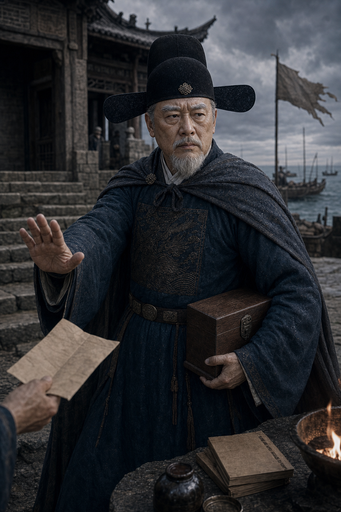
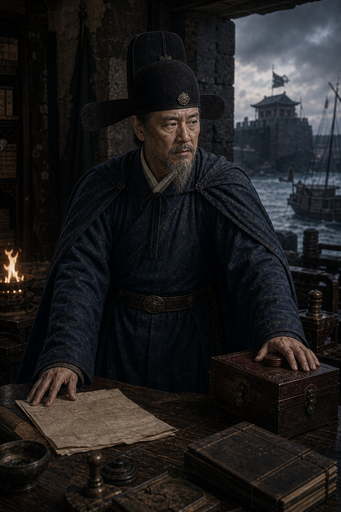
cmr r4: close portrait safe-zone and prompt nits

diff --git a/docs/portrait-prompts-scene-v2.md b/docs/portrait-prompts-scene-v2.md
@@ -158,7 +158,7 @@ Composition/framing: Use a pose silhouette that cannot collapse into the same de
 脸型=偏方但下巴收窄；额头=方而不高；眉眼=眉骨较硬，眉毛浓而短，眼睛细小有审视感；鼻梁=宽直；颧骨=硬而横；嘴唇=嘴角平直不笑；下颌=方中收窄；胡须=修得短而硬；肤色=偏古铜；皱纹=眉间竖纹、眼角审视纹；神情=常年看人履历的冷硬筛选感，不狞笑。
 
 姿势锚点：
-身体朝向=站在卷宗架旁，身体正面略偏左；重心=直立稳在两脚之间；双手位置=右手从高架抽出一本厚空白名单册，左手把另一册夹在腋下；道具关系=名单册、履历卷宗、印匣形成「决定谁进谁退」关系；视线方向=平平扫向画面外，像在掂量人；动作类型=站姿、抽册、夹册，不坐案前递册。
+身体朝向=站在卷宗架旁，身体正面略偏左；重心=直立稳在两脚之间；双手位置=右手从高架抽出一本厚空白名单册，左手把另一册夹在腋下；道具关系=名单册、履历卷宗、印匣形成「决定谁进谁退」关系；视线方向=平平扫向旁侧人影，像在掂量人；动作类型=站姿、抽册、夹册，不坐案前递册。
 
 场景服饰：深黑蓝文官袍，吏部权柄感，纹样锋利克制；吏部铨选房，高卷宗架、无字名册、印匣、官员履历卷宗。
 
@@ -344,13 +344,13 @@ Composition/framing: Use a pose silhouette that cannot collapse into the same de
 
 人物：黄道周，学者型直臣，书画名家，南明抗清被俘后至死不降。
 
-历史锚点：冷暗囚室里，他双手带着轻链，仍把诗稿举在胸前，侧脸拒绝画面外的劝降。
+历史锚点：冷暗囚室里，他双手带着轻链，仍把诗稿举在胸前，侧脸拒绝旁侧的劝降。
 
 脸部锚点：
 脸型=瘦削长脸；额头=高，眉骨高；眉眼=眼神执拗冷峻；鼻梁=直而长；颧骨=瘦高显骨；嘴唇=抿而硬；下颌=瘦长；胡须=长须灰白；肤色=牢狱里的灰白；皱纹=眉间深纹、眼下疲纹；神情=牢狱疲惫但脊梁不弯，执拗到底。
 
 姿势锚点：
-身体朝向=站直，微微侧脸朝画面外；重心=端立，脊梁不弯；双手位置=双手带轻链，却把一卷无字诗稿举在胸前；道具关系=轻链、诗稿、墙边竹简形成「囚室拒降」关系；视线方向=侧脸拒绝看画面外的劝降者；动作类型=带链站立、举诗稿、侧脸拒降，不扶案静立。
+身体朝向=站直，微微侧脸朝旁侧劝降者；重心=端立，脊梁不弯；双手位置=双手带轻链，却把一卷无字诗稿举在胸前；道具关系=轻链、诗稿、墙边竹简形成「囚室拒降」关系；视线方向=侧脸拒绝看旁侧劝降者；动作类型=带链站立、举诗稿、侧脸拒降，不扶案静立。
 
 场景服饰：朴素深灰蓝文官袍，衣摆有尘土和磨损，仍保持士大夫整洁；冷暗囚室或临刑前的石室，墙边有锁链、冷光、竹简和无字诗稿，背景极简压抑。
 
@@ -396,7 +396,7 @@ Composition/framing: Use a pose silhouette that cannot collapse into the same de
 脸型=短方脸，脸盘不宽不长；额头=宽而低，带黄土灰；眉眼=粗直黑眉，眼神锐利警醒；鼻梁=短直，不厚鼻翼；颧骨=中等但被风沙磨出硬线；嘴唇=干而紧；下颌=短方有力；胡须=短硬黑须贴下巴；肤色=土褐，被黄河风沙磨暗；皱纹=额间浅纹、眼下风尘纹；神情=现场立规矩的实干焦急，不是文馆清谈。
 
 姿势锚点：
-身体朝向=半蹲面向粮袋和木桩；重心=前压到插旗的右臂；双手位置=右手把无字白旗插进黄土，左手压无字赈济粮册；道具关系=白旗、粮袋、赈济簿连成“救荒安抚”关系；视线方向=看向画面外流民和兵影；动作类型=半蹲、插旗、压册，不站案前。
+身体朝向=半蹲面向粮袋和木桩；重心=前压到插旗的右臂；双手位置=右手把无字白旗插进黄土，左手压无字赈济粮册；道具关系=白旗、粮袋、赈济簿连成“救荒安抚”关系；视线方向=看向远处流民和兵影；动作类型=半蹲、插旗、压册，不站案前。
 
 场景服饰：深色御史袍、行旅披风、衣摆沾黄土；黄河赈济行营，粮袋、白旗、驿牌、远处流民和兵影。
 
@@ -414,7 +414,7 @@ Composition/framing: Use a pose silhouette that cannot collapse into the same de
 脸型=圆脸但不肥，脸盘端正；额头=平而宽，发际整齐；眉眼=短而整的眉，眼睛机敏却带久役的疲惫；鼻梁=直，鼻翼略宽；颧骨=被软颊包住，不外露；嘴唇=薄而抿，嘴角微抿出恭谨；下颌=圆而收；胡须=无须，下巴洁净；肤色=白里带灰，宫中少日照之色；皱纹=眼角细纹、额间浅横纹；神情=恭谨里压着委屈和戒备，不阴毒、不谄媚。
 
 姿势锚点：
-身体朝向=半侧身贴紧闭合朱门；重心=直立微偏向门一侧，像被推到门口；双手位置=右手扶住横门闩却未推开，左手把封缄辩诬文书护在胸前；道具关系=门闩、封缄文书、紧闭朱门连成“开门疑云与辩诬”关系；视线方向=从门侧回望画面外，似在自证；动作类型=站姿、侧身、护牍回望，不开门、不持刀。
+身体朝向=半侧身贴紧闭合朱门；重心=直立微偏向门一侧，像被推到门口；双手位置=右手扶住横门闩却未推开，左手把封缄辩诬文书护在胸前；道具关系=门闩、封缄文书、紧闭朱门连成“开门疑云与辩诬”关系；视线方向=从门侧回望门外暗影，似在自证；动作类型=站姿、侧身、护牍回望，不开门、不持刀。
 
 场景服饰：深紫黑司礼监内官袍，暗金纹样克制，帽饰完整，不像文官亦不像武将；司礼监值房与宫门阴影，宫灯、朱门门闩、无字冤案卷宗、封缄文书托盘。
 
@@ -446,7 +446,7 @@ Composition/framing: Use a pose silhouette that cannot collapse into the same de
 脸型=宽脸，骨架方；额头=不高，被冷光压暗；眉眼=眉浓而短，眼小且下压审视；鼻梁=粗；颧骨=宽而钝；嘴唇=厚薄适中，抿得平直；下颌=硬而方；胡须=短硬须；肤色=暗沉；皱纹=眉间竖纹、嘴角硬纹；神情=冷而麻木，习惯执行命令，不是夸张凶相。
 
 姿势锚点：
-身体朝向=半坐在审讯案侧，偏向画面外囚位；重心=压在靠案的一侧臀腿；双手位置=右手把一张空白审讯令压到案角，左手按着绣春刀柄；道具关系=审讯令、刀柄、无字案卷连成“诏狱逼供与追赃”关系；视线方向=头微低、目光向下审视画面外的囚犯；动作类型=半坐、压令、按刀，不站立持纸。
+身体朝向=半坐在审讯案侧，偏向旁侧囚位；重心=压在靠案的一侧臀腿；双手位置=右手把一张空白审讯令压到案角，左手按着绣春刀柄；道具关系=审讯令、刀柄、无字案卷连成“诏狱逼供与追赃”关系；视线方向=头微低、目光向下审视旁侧囚犯；动作类型=半坐、压令、按刀，不站立持纸。
 
 场景服饰：黑色飞鱼服或锦衣卫高官服，暗红腰带，佩刀可见而不夸张；北镇抚司审讯外堂，案上无字案卷、锁链阴影、冷烛、墙上暗影，不出现受刑者。
 
@@ -462,7 +462,7 @@ Composition/framing: Use a pose silhouette that cannot collapse into the same de
 脸型=瘦长脸；额头=窄；眉眼=眼窝深，眼细而专注；鼻梁=尖直；颧骨=高而不夸张；嘴唇=薄而冷；下颌=瘦削；胡须=短须很少；肤色=灰黄；皱纹=眼尾细纹、法令纹浅；神情=冷静观察恐惧的专业感，压迫而不外露凶相。
 
 姿势锚点：
-身体朝向=坐在矮案旁偏侧，脸朝画面外；重心=前倾贴近烛光；双手位置=右手捏一支细竹签，左手轻轻拨开一卷空白供状；道具关系=竹签、供状、冷烛连成“近距离审讯与心理压迫”关系；视线方向=贴近烛光、自下方看画面外的人；动作类型=坐姿、前倾、捏签拨状，不站立持纸。
+身体朝向=坐在矮案旁偏侧，脸朝旁侧囚位；重心=前倾贴近烛光；双手位置=右手捏一支细竹签，左手轻轻拨开一卷空白供状；道具关系=竹签、供状、冷烛连成“近距离审讯与心理压迫”关系；视线方向=贴近烛光、自下方看旁侧囚犯；动作类型=坐姿、前倾、捏签拨状，不站立持纸。
 
 场景服饰：深黑飞鱼服，纹样压暗，腰间短刀；昏暗审讯衙署侧室，案卷、锁链阴影、冷烛，不血腥直白。
 
@@ -624,7 +624,7 @@ Composition/framing: Use a pose silhouette that cannot collapse into the same de
 脸型=长方严肃脸，六十岁上下；额头=高而起横纹；眉眼=花白浓眉，眼神沉重疲惫；鼻梁=直而平；颧骨=不削，带松弛；嘴唇=抿而下垂；下颌=略松微垂；胡须=花白长须，齐整；肤色=灰黄少血色；皱纹=额纹、眼袋纹、法令纹深；神情=知自己只是暂压矛盾的沉重。
 
 姿势锚点：
-身体朝向=坐案侧身朝画面外的边将方向，上半身略转；重心=偏压在推令的右臂；双手位置=左手按住一封空白保任奏疏，右手把将令向画面外边将方向推去；道具关系=保任奏疏、空白将令、辽东地图连成“替边将保任”关系；视线方向=却望向关门外，似有忧虑；动作类型=按奏疏、推将令，不双手按桌。
+身体朝向=坐案侧身朝旁侧边将方向，上半身略转；重心=偏压在推令的右臂；双手位置=左手按住一封空白保任奏疏，右手把空白将令推向旁侧边将方向，但右手和整枚将令完整留在中轴安全区内；道具关系=保任奏疏、空白将令、辽东地图连成“替边将保任”关系；视线方向=却望向关门外，似有忧虑；动作类型=按奏疏、推将令，不双手按桌。
 
 场景服饰：文官督师袍外加厚披风与轻甲护肩；宁远军务帐，无字辽东地图、满桂军牌空白将令、尚方剑匣、火盆、旧军报。
 
@@ -644,7 +644,7 @@ Composition/framing: Use a pose silhouette that cannot collapse into the same de
 
 场景服饰：明军将领甲胄混搭厚皮袍，略不守规制；皮岛东江海岛军营，海风、船影、火盆、无字军旗、粮船货箱、空白督师令。
 
-专属负面：不要画成正统边帅或处决场景，不要瘦长脸，不要正面站定持令。Do not reuse the same actor face, facial structure, beard pattern, body type, pose, or silhouette as other portraits in this batch.
+专属负面：不要画成正统边帅或处决场景，不要瘦长脸，不要正面站定持令，不要与左良玉共用病态倚舷抓绳回望火光姿态。Do not reuse the same actor face, facial structure, beard pattern, body type, pose, or silhouette as other portraits in this batch.
 
 #### 阎鸣泰 `minister_阎鸣泰.png`
 
@@ -692,7 +692,7 @@ Composition/framing: Use a pose silhouette that cannot collapse into the same de
 
 场景服饰：明军边将轻甲，深蓝黑内衬，皮护肩，暗红披风，腰间佩刀；山海关城门内侧军帐门口，巨大门闩、关城阴影、远处关外烟尘、无字军旗、马匹暗影。
 
-专属负面：不要画成普通辽东训练少年，不要粗豪老将脸，不要按案持令。Do not reuse the same actor face, facial structure, beard pattern, body type, pose, or silhouette as other portraits in this batch.
+专属负面：不要画成普通辽东训练少年，不要粗豪老将脸，不要按案持令，不要与耿仲明共用贴城门低伏抓钥启闩姿态。Do not reuse the same actor face, facial structure, beard pattern, body type, pose, or silhouette as other portraits in this batch.
 
 #### 左良玉 `minister_左良玉.png`
 
@@ -708,7 +708,7 @@ Composition/framing: Use a pose silhouette that cannot collapse into the same de
 
 场景服饰：磨损厚甲、暗褐战袍、粗重腰带，脏旧披风；长江边军船甲板，火光、船帆、抢来的粮袋箱笼、疲兵阴影、无字军旗。
 
-专属负面：不要画成儒雅将领或热血救国将军，不要清秀脸，不要按案持令。Do not reuse the same actor face, facial structure, beard pattern, body type, pose, or silhouette as other portraits in this batch.
+专属负面：不要画成儒雅将领或热血救国将军，不要清秀脸，不要按案持令，不要与毛文龙共用倚桅压册按刀斜视姿态。Do not reuse the same actor face, facial structure, beard pattern, body type, pose, or silhouette as other portraits in this batch.
 
 #### 陈新甲 `minister_陈新甲.png`
 
@@ -852,7 +852,7 @@ Composition/framing: Use a pose silhouette that cannot collapse into the same de
 
 场景服饰：磨损甲胄、深褐披风、腰间弓刀；登州城门内侧或军火库暗廊，门闩、火把、火器箱、船缆、甲具、无字旗影。
 
-专属负面：不要与孔有德同脸兄弟，不要粗豪首倡的反将，不要正派守门将领，不要脸谱反派或妖魔坏人脸。Do not reuse the same actor face, facial structure, beard pattern, body type, pose, or silhouette as other portraits in this batch.
+专属负面：不要与孔有德同脸兄弟，不要粗豪首倡的反将，不要正派守门将领，不要脸谱反派或妖魔坏人脸，不要与吴三桂共用山海关半转扶门闩守关姿态。Do not reuse the same actor face, facial structure, beard pattern, body type, pose, or silhouette as other portraits in this batch.
 
 #### 尚可喜 `minister_尚可喜.png`
 
@@ -956,11 +956,11 @@ Composition/framing: Use a pose silhouette that cannot collapse into the same de
 脸型=方正老脸，不长；额头=宽，有横纹；眉眼=白眉整齐偏粗，眼睛干净坚定；鼻梁=不高但直；颧骨=平稳，不削瘦；嘴唇=厚薄适中；下颌=方而有力；胡须=短方形白须和白短髭，不要长须；肤色=海风吹出的青灰干色；皱纹=额横纹、眼角浅纹；神情=清官守城的平稳，不是囚中诗人，不是鹰鼻边官。
 
 姿势锚点：
-身体朝向=站在中左所城阶，身体朝城内不朝海船；重心=端直压在抱印匣的左臂；双手位置=右手把无字逃亡文书推向来劝逃者一侧，但手和整份文书完整留在中轴安全区内，左手抱留守印匣；道具关系=逃亡文书被推开，印匣被抱住；视线方向=看向来劝逃者；动作类型=站姿、推开、抱印，不按案。
+身体朝向=站在中左所城案前，身体朝城内不朝海船；重心=端直压在案前双臂；双手位置=右手按住案内完整无字逃亡文书，左手按住留守印匣；道具关系=逃亡文书被留在案内不接，印匣被守住；视线方向=侧望城内来劝逃者；动作类型=站姿、按文书、守印匣，不出现第二人递纸。
 
 场景服饰：素净深青地方/南明大臣袍，海风旧披风；厦门中左所城、海防小城石阶、空船影、留守印匣、城防簿、冷火盆。
 
-专属负面：不要长山羊须，不要分叉长须，不要像焦源溥或瞿式耜，不要普通布政使案前像。Do not reuse the same actor face, facial structure, beard pattern, body type, pose, or silhouette as other portraits in this batch.
+专属负面：不要长山羊须，不要分叉长须，不要像焦源溥或瞿式耜，不要第二只递纸手，不要第二个人物。Do not reuse the same actor face, facial structure, beard pattern, body type, pose, or silhouette as other portraits in this batch.
 
 #### 余大成 `minister_余大成.png`
 人物：余大成，山东巡抚，崇拜袁崇焕，吴桥兵变时因“不禁叛乱，而禁杀生”被讥为“白莲都院”，登州失守后充军电白。
@@ -995,7 +995,7 @@ Composition/framing: Use a pose silhouette that cannot collapse into the same de
 #### 瞿式耜 `minister_瞿式耜.png`
 人物：瞿式耜，常熟人，南明广西巡抚、永历朝大学士，留守桂林，城破被俘后囚禁四十余日，与张同敞唱和赋诗，不屈就义。
 
-历史锚点：桂林陷落后的囚室中，他在冷光下写下无字诗稿，侧身拒绝画面外劝降。
+历史锚点：桂林陷落后的囚室中，他在冷光下写下无字诗稿，侧身拒绝旁侧劝降。
 
 脸部锚点：
 脸型=长马脸；额头=高，露在素冠/头巾下；眉眼=灰白长眉，眼睛深陷而冷静；鼻梁=长直但不鹰钩；颧骨=瘦高但被牢狱疲惫压住；嘴唇=薄；下颌=瘦长；胡须=两缕细长白须分开垂下；肤色=苍白带牢狱灰气；皱纹=眼下深纹、颊侧细纹；神情=疲惫但脊梁不弯。
@@ -1033,7 +1033,7 @@ Composition/framing: Use a pose silhouette that cannot collapse into the same de
 场景服饰：洛阳王府内殿，厚帘、金器、酒案、宫灯；身着深红金宗藩王袍，纹样厚重而不越皇帝规制。
 
 脸部锚点：
-脸型=圆胖丰满；额头=宽而油润；眉眼=自满又怯懦；鼻梁=厚短；颧骨=被脂肪埋平；嘴唇=厚而松弛；下颌=双下巴；胡须/发饰=稀疏短须配宗藩冠；肤色=养尊处优的白净；皱纹/年龄纹=四十岁上下、纹浅而面松；神情=骄矜中藏怯。
+脸型=圆胖丰满；额头=宽而油润；眉眼=稀短眉，眼皮厚重下垂，眼裂偏窄，眼角微垂，目光避开正面但仍带自矜；鼻梁=厚短；颧骨=被脂肪埋平；嘴唇=厚而松弛；下颌=双下巴；胡须/发饰=稀疏短须配宗藩冠；肤色=养尊处优的白净；皱纹/年龄纹=四十岁上下、纹浅而面松；神情=骄矜中藏怯。
 
 姿势锚点：
 身体朝向=半身正对略偏，整个人陷在洛阳王府厚重大椅里；重心=沉坐压住扶手和椅背；双手位置=右手搭扶手，左手握玉带；道具关系=厚重大椅、酒案金器、洛阳王府帘幕形成“富贵宗藩坐享其成”关系；视线方向=自满下视；动作类型=沉坐大椅、握玉带，不半身站立。
@@ -1049,7 +1049,7 @@ Composition/framing: Use a pose silhouette that cannot collapse into the same de
 场景服饰：衡州桂王府内殿，竹帘、屏风、宫灯、家眷箱笼、封缄宗藩册宝匣，窗外乱兵火光；身着暗红宗藩王袍、金线克制，外披仓促搭上的暗色斗篷。
 
 脸部锚点：
-脸型=温和偏方圆；额头=平展；眉眼=谨慎而惊惧；鼻梁=平直；颧骨=不显；嘴唇=薄而紧抿；下颌=松弛；胡须/发饰=中等灰须配宗藩冠；肤色=偏黄；皱纹/年龄纹=五十岁上下、眼尾与额纹明显；神情=缺少进取的惶惑。
+脸型=温和偏方圆；额头=平展；眉眼=细淡眉，眼皮松，眼睛偏小，眼角下垂，目光频频瞥向门外；鼻梁=平直；颧骨=不显；嘴唇=薄而紧抿；下颌=松弛；胡须/发饰=中等灰须配宗藩冠；肤色=偏黄；皱纹/年龄纹=五十岁上下、眼尾与额纹明显；神情=缺少进取的惶惑。
 
 姿势锚点：
 身体朝向=向门口后撤；重心=后移欲走；双手位置=一手护册宝匣，一手抓披风；道具关系=紧贴封缄册宝匣；视线方向=瞥向门外；动作类型=被乱世推着走的仓皇南逃。
@@ -1065,7 +1065,7 @@ Composition/framing: Use a pose silhouette that cannot collapse into the same de
 场景服饰：南京宫殿内室，软榻、酒盏、宫灯、封缄江北急报、散乱赏赐器物、屏风；身着暗红金纹宗室皇帝常服，略华丽而不威严。
 
 脸部锚点：
-脸型=偏胖松软；额头=油亮；眉眼=浮而惊；鼻梁=短钝；颧骨=被脂肪掩；嘴唇=厚而懈；下颌=松垂；胡须/发饰=零落短须配常服冠；肤色=享乐后的虚白；皱纹/年龄纹=三十多岁、面有早松之态；神情=迟疑懒散。
+脸型=偏胖松软；额头=油亮；眉眼=眉毛散短，眼皮浮肿，眼睛圆而浅，眼尾微垂，目光游移；鼻梁=短钝；颧骨=被脂肪掩；嘴唇=厚而懈；下颌=松垂；胡须/发饰=零落短须配常服冠；肤色=享乐后的虚白；皱纹/年龄纹=三十多岁、面有早松之态；神情=迟疑懒散。
 
 姿势锚点：
 身体朝向=从南京宫殿软榻边半起，肩膀却还赖向榻背；重心=一半拖在软榻，一半被江北急报牵起；双手位置=右手撑住软榻边，左手迟疑伸向封缄江北急报；道具关系=酒盏、软榻、江北急报并置，急报逼近享乐空间；视线方向=避开急报、斜看屏风外动静；动作类型=软榻半起、伸手迟疑，不沉坐王府大椅。
@@ -1081,7 +1081,7 @@ Composition/framing: Use a pose silhouette that cannot collapse into the same de
 场景服饰：昏暗寝宫，朱门、宫灯、屏风、凤座阴影、封缄口谕托盘，窗外模糊宫城火光；身着明代皇后礼服或深色宫廷正装，凤冠完整，金红黑为主，不似普通妃嫔。
 
 脸部锚点：
-脸型=端庄清瘦；额头=平正；眉眼=克制而悲；鼻梁=秀直；颧骨=微显清减；嘴唇=薄而抿；下颌=清峻；胡须/发饰=凤冠垂珠齐整；肤色=苍白；皱纹/年龄纹=三十多岁、忧色入纹；神情=国亡前的镇定哀凝。
+脸型=端庄清瘦；额头=平正；眉眼=长而平的细眉，眼皮薄，眼尾微垂，眼下有淡青疲纹，目光收敛；鼻梁=秀直；颧骨=微显清减；嘴唇=薄而抿；下颌=清峻；胡须/发饰=凤冠垂珠齐整；肤色=苍白；皱纹/年龄纹=三十多岁、忧色入纹；神情=国亡前的镇定哀凝。
 
 姿势锚点：
 身体朝向=端立朱门旁、面朝门外；重心=直立沉稳；双手位置=一手扶衣袖，一手按口谕托盘边；道具关系=傍封缄口谕托盘；视线方向=望宫门外火光；动作类型=接末日口谕的端立。
@@ -1097,7 +1097,7 @@ Composition/framing: Use a pose silhouette that cannot collapse into the same de
 场景服饰：缅甸滇缅边境临时行宫，雨林暗影、竹楼、随行箱笼、封缄印匣、远处山路火把；身着年轻帝王宗室暗红袍，金线少，衣冠规整却被雨湿尘染。
 
 脸部锚点：
-脸型=清秀瘦削；额头=平窄；眉眼=惶惑而端正；鼻梁=细直；颧骨=略凸；嘴唇=薄；下颌=尖瘦；胡须/发饰=稀疏青须配规整冠巾；肤色=奔逃后的灰白；皱纹/年龄纹=三十多岁、眼下疲纹；神情=端正中带长期奔逃之惫。
+脸型=清秀瘦削；额头=平窄；眉眼=细直眉，眼睛偏大但眼神不稳，眼角略向下，眼下有奔逃疲纹；鼻梁=细直；颧骨=略凸；嘴唇=薄；下颌=尖瘦；胡须/发饰=稀疏青须配规整冠巾；肤色=奔逃后的灰白；皱纹/年龄纹=三十多岁、眼下疲纹；神情=端正中带长期奔逃之惫。
 
 姿势锚点：
 身体朝向=微缩朝向临时案；重心=内收下沉；双手位置=一手抱印匣，一手扶湿披风；道具关系=紧抱封缄印匣；视线方向=望向不可回的边境；动作类型=国祚被压进一个小盒的瑟缩。
@@ -1110,10 +1110,10 @@ Composition/framing: Use a pose silhouette that cannot collapse into the same de
 
 历史锚点：随郑氏流寓台湾，清军平澎湖后交还印册、留绝命诗、拒降殉明；画其在东宁王府把宗藩印册推至案前、面向海风诀别的一瞬，不表现具体自尽工具。
 
-场景服饰：台湾东宁宁靖王府简陋内室，海风、烛光、印匣、无字绝命诗卷、旧宗室册书、窗外海潮；身着暗红宗藩王袍、金线克制，外披旧披风，衣料带海岛潮湿感。
+场景服饰：台湾东宁宁靖王府简陋内室，海风、烛光、印匣、无字绝命诗卷、封缄宗室旧册匣、窗外海潮；身着暗红宗藩王袍、金线克制，外披旧披风，衣料带海岛潮湿感。
 
 脸部锚点：
-脸型=清瘦修长；额头=平峻；眉眼=忧郁而坚定；鼻梁=直挺；颧骨=瘦显；嘴唇=薄而定；下颌=清硬；胡须/发饰=灰长须配旧宗藩冠；肤色=带海岛寒气的青白；皱纹/年龄纹=五十岁上下、风霜入纹；神情=流亡孤臣的忧郁决绝。
+脸型=清瘦修长；额头=平峻；眉眼=细长平眉，眼窝略深，眼尾下压，眼下有海风疲纹，目光定在窗外潮声；鼻梁=直挺；颧骨=瘦显；嘴唇=薄而定；下颌=清硬；胡须/发饰=灰长须配旧宗藩冠；肤色=带海岛寒气的青白；皱纹/年龄纹=五十岁上下、风霜入纹；神情=流亡孤臣的忧郁决绝。
 
 姿势锚点：
 身体朝向=朝海风站直；重心=挺立沉定；双手位置=一手推出印匣，一手压无字诗卷；道具关系=印匣与无字绝命诗卷并陈；视线方向=面向窗外海潮；动作类型=把宗藩身份交还亡国的诀别。
@@ -1145,7 +1145,7 @@ Composition/framing: Use a pose silhouette that cannot collapse into the same de
 人物：莽古尔泰，努尔哈赤第五子，正蓝旗主，勇悍暴烈，御前露刃、后被夺爵牵出大逆案。
 历史锚点：后金议政帐中，他在皇太极面前怒而半拔刀、越过礼法线的一瞬。
 脸部锚点：脸型=短宽脸、脖颈粗；额头=低宽；眉眼=眉浓乱、眼大外露；鼻梁=钝粗；颧骨=粗阔；嘴唇=嘴角绷硬；下颌=宽厚紧绷；胡须/发饰=满洲垂辫、浓黑短须；肤色=风吹粗粝；皱纹/年龄纹=四十上下、额颊粗纹；神情=一点就着、暴烈失控。
-姿势锚点：身体朝向=斜向画面外前冲；重心=前倾失稳；双手位置=右手握半出鞘刀柄、左手抓扯乱的披风边；道具关系=露刃越礼；视线方向=逼视皇太极；动作类型=怒而半拔刀。
+姿势锚点：身体朝向=斜向前方冲出；重心=前倾失稳；双手位置=右手握半出鞘刀柄、左手抓扯乱的披风边；道具关系=露刃越礼；视线方向=逼视皇太极；动作类型=怒而半拔刀。
 场景服饰：后金军帐，火盆、无字蓝旗影、刀弓、被震翻的酒碗、议政木牌散乱；后金甲胄，厚皮袍，蓝旗系深蓝细节，暗色披风。
 专属负面：不要画成沉稳统帅或普通猛将、不要丑化成蛮汉。Do not reuse the same actor face, facial structure, beard pattern, body type, pose, or silhouette as other portraits in this batch.
 
@@ -1300,7 +1300,7 @@ Composition/framing: Use a pose silhouette that cannot collapse into the same de
 脸型=幼童圆小脸；额头=饱满，被过大的幼主冠压住；眉眼=幼细眉，眼睛茫然紧张；鼻梁=小而软；颧骨=儿童圆颊；嘴唇=小而微闭；下颌=圆短；胡须/发饰=无须，幼主冠帽过大；肤色=白净偏冷；皱纹/年龄纹=无皱，只有紧张眼影；神情=被巨大政治机器包围的茫然，不是成年皇帝。
 
 姿势锚点：
-身体朝向=端坐在小座正前；重心=身体小而僵，压在膝前袖中；双手位置=双手收在过长袖中，袖口垂在膝前；道具关系=小座、空汗位、八旗令牌形成“折中幼主”关系；视线方向=看向画面外成人阴影；动作类型=静坐、被推上位置，不主动发令。
+身体朝向=端坐在小座正前；重心=身体小而僵，压在膝前袖中；双手位置=双手收在过长袖中，袖口垂在膝前；道具关系=小座、空汗位、八旗令牌形成“折中幼主”关系；视线方向=看向侧后成人阴影；动作类型=静坐、被推上位置，不主动发令。
 
 场景服饰：后金小王子/幼主袍，深蓝黑金线，帽饰完整但压得过大；汗帐内，巨大空汗位、宫灯、皮帐、成人甲士和摄政者模糊阴影、八旗令牌。
 
@@ -1350,7 +1350,7 @@ Composition/framing: Use a pose silhouette that cannot collapse into the same de
 脸型=结实宽颧脸；额头=低宽，有旧伤阴影；眉眼=浓眉乱压，眼神狠且不信人；鼻梁=粗硬；颧骨=高而带疤；嘴唇=厚薄适中，嘴角下坠；下颌=宽硬；胡须=粗乱短须；肤色=烟火熏黑的粗褐；皱纹=额角伤纹、眼下横纹；神情=随时翻脸的多疑暴烈，不是单纯苦人。
 
 姿势锚点：
-身体朝向=斜向前压在乱帐火光里；重心=压向财箱和刀柄；双手位置=左手压抢来财箱，右手握重刀柄；道具关系=财箱、重刀、破旗形成“暴烈军头”关系；视线方向=斜看画面外的部下；动作类型=前压、压箱、握刀，不牵马沉默行走。
+身体朝向=斜向前压在乱帐火光里；重心=压向财箱和刀柄；双手位置=左手压抢来财箱，右手握重刀柄；道具关系=财箱、重刀、破旗形成“暴烈军头”关系；视线方向=斜看旁侧部下；动作类型=前压、压箱、握刀，不牵马沉默行走。
 
 场景服饰：破旧边兵甲、暗红布袍、重刀；边军乱营或四川前线乱帐，火光、尘土、破帐、财箱、兵器、无字破旗。
 
@@ -1382,7 +1382,7 @@ Composition/framing: Use a pose silhouette that cannot collapse into the same de
 脸型=偏瘦的窄长脸；额头=不高，发际乱；眉眼=细眉弯挑，眼神亮而游移；鼻梁=窄直；颧骨=中高但不硬；嘴唇=薄，笑意偏向一侧；下颌=尖而灵活；胡须=细短胡须修得不齐；肤色=营帐火光下的暗黄；皱纹=眼尾笑纹、嘴角斜纹；神情=善谈会算、随时改口的狡黠，不是凶猛主将，也不动物化。
 
 姿势锚点：
-身体朝向=侧身坐在营帐矮案旁；重心=松散靠向一侧腰胯；双手位置=右手捏小木牌，左手搭在酒碗边；道具关系=木牌、酒碗、分赃银块形成“联盟与分赃算计”关系；视线方向=斜笑看向画面外同伙；动作类型=坐姿、捏牌、斜笑，不握重刀压箱。
+身体朝向=侧身坐在营帐矮案旁；重心=松散靠向一侧腰胯；双手位置=右手捏小木牌，左手搭在酒碗边；道具关系=木牌、酒碗、分赃银块形成“联盟与分赃算计”关系；视线方向=斜笑看向旁侧同伙；动作类型=坐姿、捏牌、斜笑，不握重刀压箱。
 
 场景服饰：破旧皮袍、轻甲、暗色围巾，衣料比普通流寇稍花哨但不富贵；流寇营帐，火盆、酒碗、骰盅/骨牌、分赃银块、无字联盟木牌、帐外兵影。
 
@@ -1424,14 +1424,14 @@ Composition/framing: Use a pose silhouette that cannot collapse into the same de
 
 人物：孙可望，张献忠义子，大西军主要将领，入云贵后联明抗清又挟永历帝，自称/受封秦王，因削李定国兵权导致内裂，永历十一年兵败降清。
 
-历史锚点：安隆府中，他正坐高案后，一手按秦王印匣，一手摊开空白诏书，像把朝廷压在自己的案上。
+历史锚点：安隆府中，他正坐高案后，一手按秦王印匣，一手压住封缄永历诏书卷，像把朝廷压在自己的案上。
 
 脸部锚点：
 脸型=圆厚脸，颊肉重；额头=宽而低；眉眼=重眉压眼，眼神猜忌强势；鼻梁=鼻梁不高但鼻翼宽；颧骨=被厚脸肉压住；嘴唇=中厚，嘴角下坠；下颌=宽圆而重；胡须=短浓黑须，修得比李定国更王爵化；肤色=滇黔湿热里的暗黄；皱纹=眉间压纹、嘴角下坠纹；神情=霸道野心与不服管，不是正面忠臣。
 
 姿势锚点：
-身体朝向=正坐高案后面对观者；重心=上身压向案面形成压迫；双手位置=左手按秦王印匣，右手摊开空白永历诏书；道具关系=秦王印匣、永历诏书、小皇帝座影形成“挟天子与内斗”关系；视线方向=直视画面外臣属；动作类型=坐姿、按印、摊诏，像把朝廷压在案上。
+身体朝向=正坐高案后面对观者；重心=上身压向案面形成压迫；双手位置=左手按秦王印匣，右手压住封缄永历诏书卷，文面不可见；道具关系=秦王印匣、封缄永历诏书卷、小皇帝座影形成“挟天子与内斗”关系；视线方向=直视案前臣属；动作类型=坐姿、按印、压诏，像把朝廷压在案上。
 
-场景服饰：大西军将领与南明王爵混合袍甲，暗红披风，金饰略过分；贵州安隆府王府式军帐，秦王印匣、无字永历诏书、滇黔地图模型、火盆、背后小皇帝座影模糊。
+场景服饰：大西军将领与南明王爵混合袍甲，暗红披风，金饰略过分；贵州安隆府王府式军帐，秦王印匣、封缄永历诏书卷、滇黔地图模型、火盆、背后小皇帝座影模糊。
 
 专属负面：不要和李定国画成兄弟脸，不要瘦硬冷定名将脸，不要正面忠臣感，不要流寇苦人脸。Do not reuse the same actor face, facial structure, beard pattern, body type, pose, or silhouette as other portraits in this batch.

diff --git a/docs/portrait-prompts-local-south1-review.md b/docs/portrait-prompts-local-south1-review.md
@@ -70,7 +70,7 @@
 脸型=短方脸，脸盘不宽不长；额头=宽而低，带黄土灰；眉眼=粗直黑眉，眼神锐利警醒；鼻梁=短直，不厚鼻翼；颧骨=中等但被风沙磨出硬线；嘴唇=干而紧；下颌=短方有力；胡须=短硬黑须贴下巴；肤色=土褐，被黄河风沙磨暗；皱纹=额间浅纹、眼下风尘纹；神情=现场立规矩的实干焦急，不是文馆清谈。
 
 姿势锚点：
-身体朝向=半蹲面向粮袋和木桩；重心=前压到插旗的右臂；双手位置=右手把无字白旗插进黄土，左手压无字赈济粮册；道具关系=白旗、粮袋、赈济簿连成“救荒安抚”关系；视线方向=看向画面外流民/兵影；动作类型=半蹲、插旗、压册，不站案前。
+身体朝向=半蹲面向粮袋和木桩；重心=前压到插旗的右臂；双手位置=右手把无字白旗插进黄土，左手压无字赈济粮册；道具关系=白旗、粮袋、赈济簿连成“救荒安抚”关系；视线方向=看向远处流民和兵影；动作类型=半蹲、插旗、压册，不站案前。
 
 场景服饰：深色御史袍、行旅披风、衣摆沾黄土；黄河赈济行营，粮袋、白旗、驿牌、远处流民和兵影。
 
@@ -176,17 +176,17 @@
 
 人物：曾樱，东林人物，历任地方官，清廉守土；南明隆武朝为大学士、留守天兴府，后厦门空虚被袭时在中左所城殉节。
 
-历史锚点：中左所城危急，他拒绝泛海逃生，把逃亡文书推离自己，守住“清净土”的一瞬；不表现具体自尽工具。
+历史锚点：中左所城危急，他拒绝泛海逃生，把逃亡文书留在案内不接，守住“清净土”的一瞬；不表现具体自尽工具。
 
 脸部锚点：
 脸型=方正老脸，不长；额头=宽，有横纹；眉眼=白眉整齐偏粗，眼睛干净坚定；鼻梁=不高但直；颧骨=平稳，不削瘦；嘴唇=厚薄适中；下颌=方而有力；胡须=短方形白须和白短髭，不要长须；肤色=海风吹出的青灰干色；皱纹=额横纹、眼角浅纹；神情=清官守城的平稳，不是囚中诗人，不是鹰鼻边官。
 
 姿势锚点：
-身体朝向=站在中左所城阶，身体朝城内不朝海船；重心=端直压在抱印匣的左臂；双手位置=右手把无字逃亡文书推向来劝逃者一侧，但手和整份文书完整留在中轴安全区内，左手抱留守印匣；道具关系=逃亡文书被推开，印匣被抱住；视线方向=看向城内或来劝逃者；动作类型=站姿、推开、抱印，不按案。
+身体朝向=站在中左所城案前，身体朝城内不朝海船；重心=端直压在案前双臂；双手位置=右手按住案内完整无字逃亡文书，左手按住留守印匣；道具关系=逃亡文书被留在案内不接，印匣被守住；视线方向=侧望城内或来劝逃者；动作类型=站姿、按文书、守印匣，不出现第二人递纸。
 
 场景服饰：素净深青地方/南明大臣袍，海风旧披风；厦门中左所城、海防小城石阶、空船影、留守印匣、城防簿、冷火盆。
 
-专属负面：不要长山羊须，不要分叉长须，不要像焦源溥或瞿式耜，不要普通布政使案前像。
+专属负面：不要长山羊须，不要分叉长须，不要像焦源溥或瞿式耜，不要第二只递纸手，不要第二个人物。
 
 ### 何腾蛟 `minister_何腾蛟.png`
 
@@ -208,7 +208,7 @@
 
 人物：瞿式耜，常熟人，南明广西巡抚、永历朝大学士，留守桂林，城破被俘后囚禁四十余日，与张同敞唱和赋诗，不屈就义。
 
-历史锚点：桂林陷落后的囚室中，他在冷光下写下无字诗稿，侧身拒绝画面外劝降。
+历史锚点：桂林陷落后的囚室中，他在冷光下写下无字诗稿，侧身拒绝旁侧劝降。
 
 脸部锚点：
 脸型=长马脸；额头=高，露在素冠/头巾下；眉眼=灰白长眉，眼睛深陷而冷静；鼻梁=长直但不鹰钩；颧骨=瘦高但被牢狱疲惫压住；嘴唇=薄；下颌=瘦长；胡须=两缕细长白须分开垂下；肤色=苍白带牢狱灰气；皱纹=眼下深纹、颊侧细纹；神情=疲惫但脊梁不弯。
